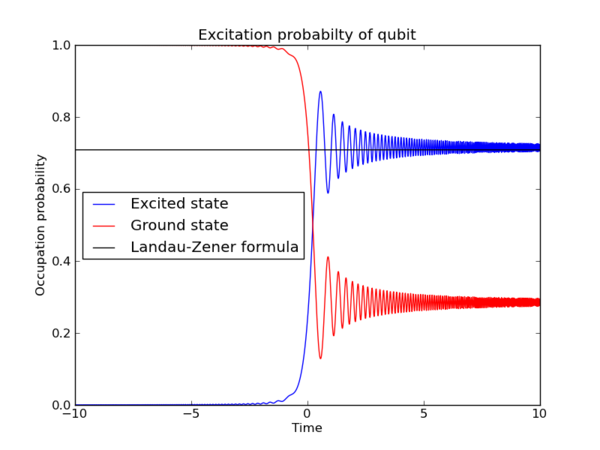
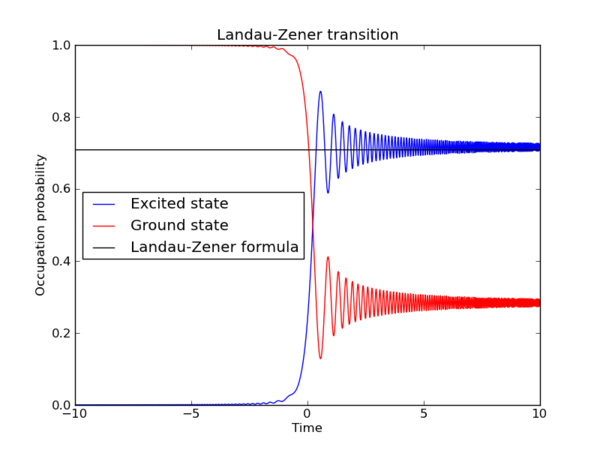
Fixed typo in example figure title

Changed region(s): [[0.33, 0.0622, 0.69, 0.0933], [0.75, 0.3111, 0.9, 0.3422], [0.81, 0.6533, 0.9, 0.6844]]

diff --git a/qutip/examples/ex_landau_zener.py b/qutip/examples/ex_landau_zener.py
@@ -69,7 +69,7 @@ plot(tlist, real(p_ex), 'b', tlist, real(1-p_ex), 'r')
 plot(tlist, 1 - exp( - pi * delta **2 / (2 * A)) * ones(shape(tlist)), 'k')
 xlabel('Time')
 ylabel('Occupation probability')
-title('Excitation probabilty of qubit')
+title('Landau-Zener transition')
 legend(("Excited state", "Ground state", "Landau-Zener formula"), loc=0)
 show()
 
